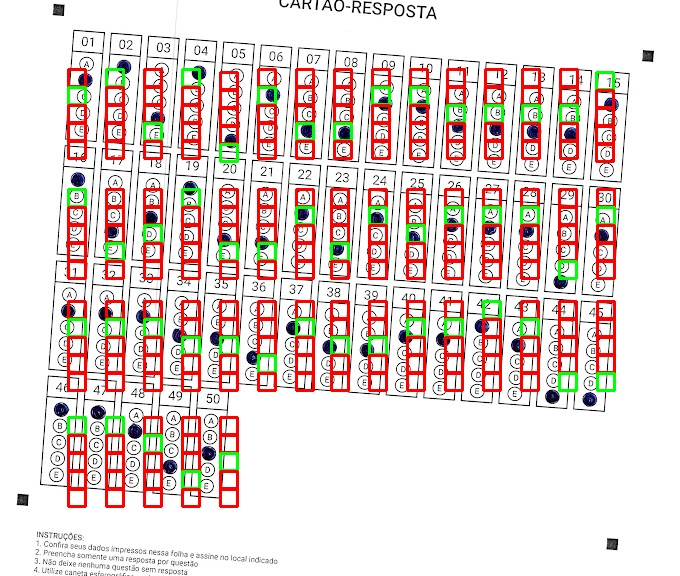
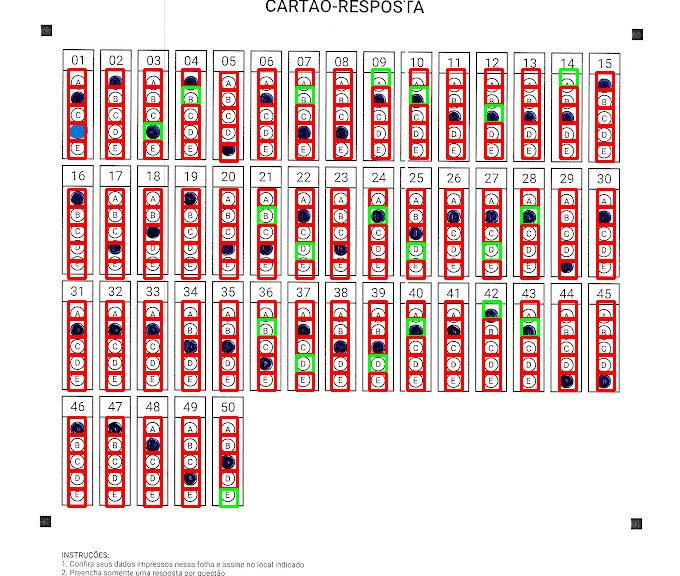
mudancas qqqw

diff --git a/leitor.py b/leitor.py
@@ -3,7 +3,7 @@ import numpy as np
 from dados import GABARITO, questoes_coordenadas
 
 # Parâmetros gerais
-ARQUIVO_IMAGEM = 'cartao3.jpg'
+ARQUIVO_IMAGEM = 'cartao2.jpg'
 NUM_QUESTOES = 50
 fator_zoom = 1.0
 zoom_incremento = 0.01
@@ -37,6 +37,7 @@ def calcular_nota(imagem_binaria, questoes_coordenadas, gabarito):
     for i, questao_coordenadas in enumerate(questoes_coordenadas):
         preenchidos = []  # Lista para armazenar as alternativas marcadas
         maior_preto = 0
+        Npreenchido = 0  # Contador de alternativas preenchidas
 
         # Verifica as alternativas de cada questão
         for j, (x, y, w, h) in enumerate(questao_coordenadas):
@@ -47,14 +48,18 @@ def calcular_nota(imagem_binaria, questoes_coordenadas, gabarito):
             if num_pretos > maior_preto:
                 maior_preto = num_pretos
                 preenchidos = [j]  # Marca a alternativa encontrada
+                Npreenchido = 1  # Inicializa o contador de alternativas preenchidas
             elif num_pretos == maior_preto:
                 preenchidos.append(j)  # Caso haja mais de uma alternativa marcada
+                Npreenchido += 1  # Incrementa o contador
 
-        alternativas_marcadas[i] = preenchidos[0] if len(preenchidos) == 1 else -1  # Se mais de uma alternativa estiver marcada, marca como erro
+        # Se mais de uma alternativa estiver marcada, marca como erro
+        alternativas_marcadas[i] = preenchidos[0] if Npreenchido == 1 else -1
 
         alternativa_certa = ord(gabarito[i]) - ord('A')
 
         if alternativas_marcadas[i] != -1:
+            # Se houver apenas uma alternativa marcada, verifica se é a correta
             if alternativas_marcadas[i] == alternativa_certa:
                 nota += 1  # Conta como certa
             print(f'Questão {i + 1}: Alternativa marcada: {chr(alternativas_marcadas[i] + ord("A"))}')
@@ -62,6 +67,7 @@ def calcular_nota(imagem_binaria, questoes_coordenadas, gabarito):
             print(f'Questão {i + 1}: Nenhuma alternativa válida ou mais de uma marcada.')
 
     return nota
+
 
 def desenhar_resultados(imagem, questoes_coordenadas, alternativas_marcadas, gabarito):
     """Desenha os resultados na imagem."""
@@ -123,6 +129,7 @@ while True:
         imagem_resultado = desenhar_resultados(imagem_cortada, questoes_coordenadas, alternativas_marcadas, GABARITO)
         cv2.imshow("Resultados", imagem_resultado)
         cv2.imwrite("resultado.jpg", imagem_resultado)
+    elif tecla == ord('z'):
         break
     elif tecla == ord('a'):
         angulo += 2
